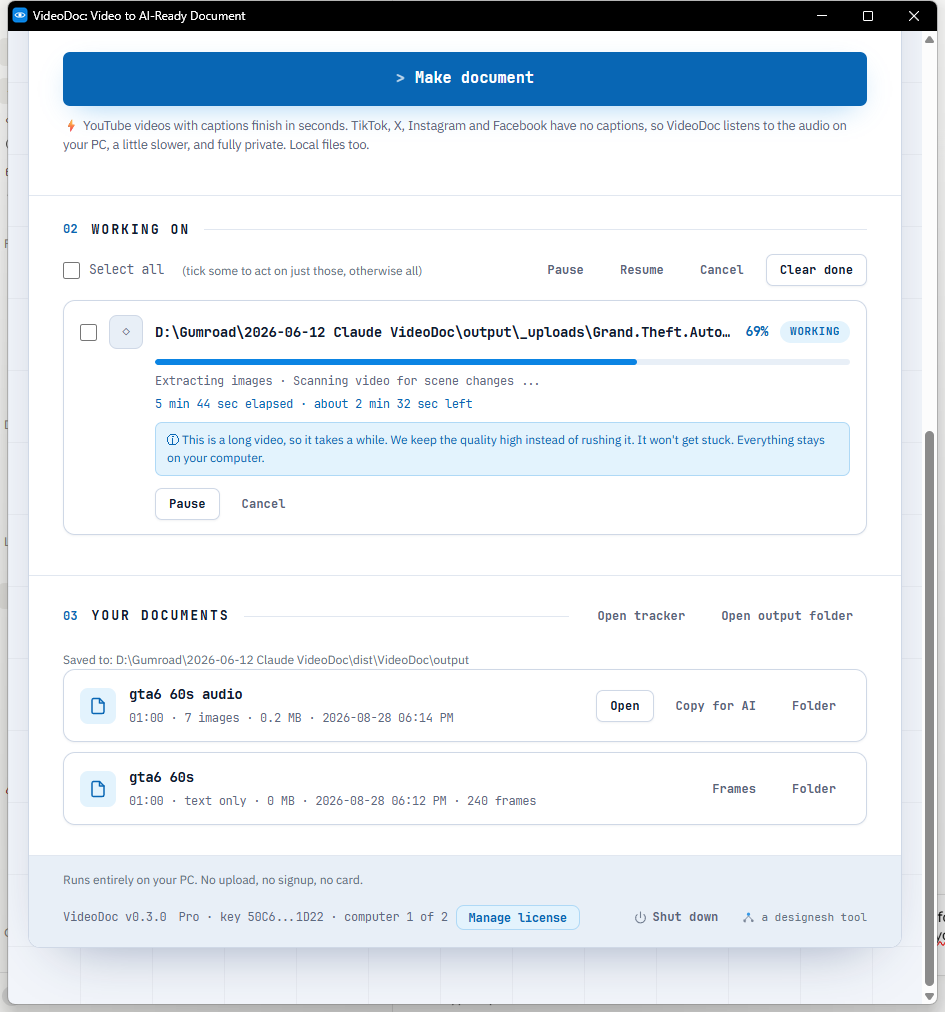
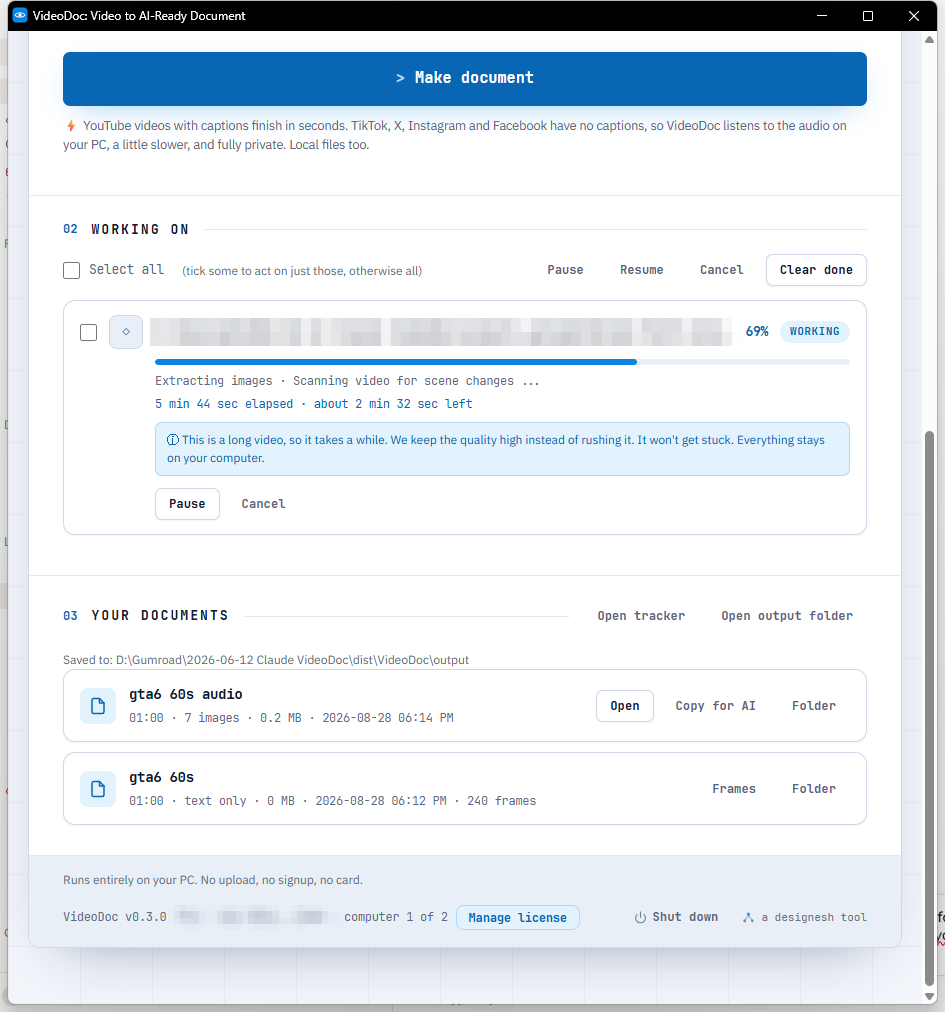
SEO: Extended Look page screenshots no longer show the source file name
Blur the source file path and the licence key in the working screenshot,
crop the file name row out of the done screenshot, and drop that second
screenshot from the page because it now repeats the first one.

Changed region(s): [[0.1534, 0.3063, 0.7672, 0.3676], [0.1841, 0.8883, 0.3376, 0.919]]

diff --git a/articles/gta-6-extended-look-frame-by-frame/index.html b/articles/gta-6-extended-look-frame-by-frame/index.html
@@ -237,11 +237,6 @@
 
         <p>For this file I wanted both. The pictures to look through, the document to search. Two runs, about 18 minutes of my evening, and I never opened a video editor.</p>
 
-        <figure class="shot">
-          <img src="../../assets/shots/app-03-done.png" alt="VideoDoc after finishing, with the GTA 6 job marked done" width="945" height="1012" loading="lazy" decoding="async">
-          <figcaption>Done. The files are in a folder, and the Show in folder button opens it.</figcaption>
-        </figure>
-
         <div class="ctabox">
           <div class="halo" aria-hidden="true"></div>
           <span class="k">27 minutes of 4K, on one PC</span>
